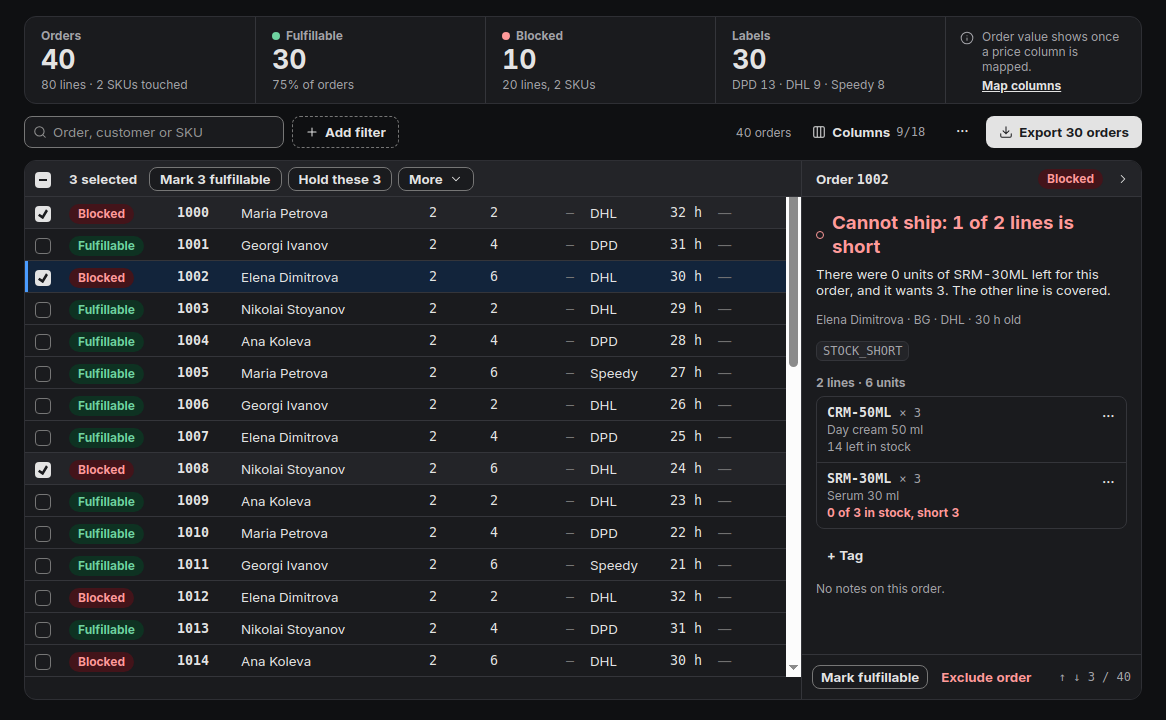
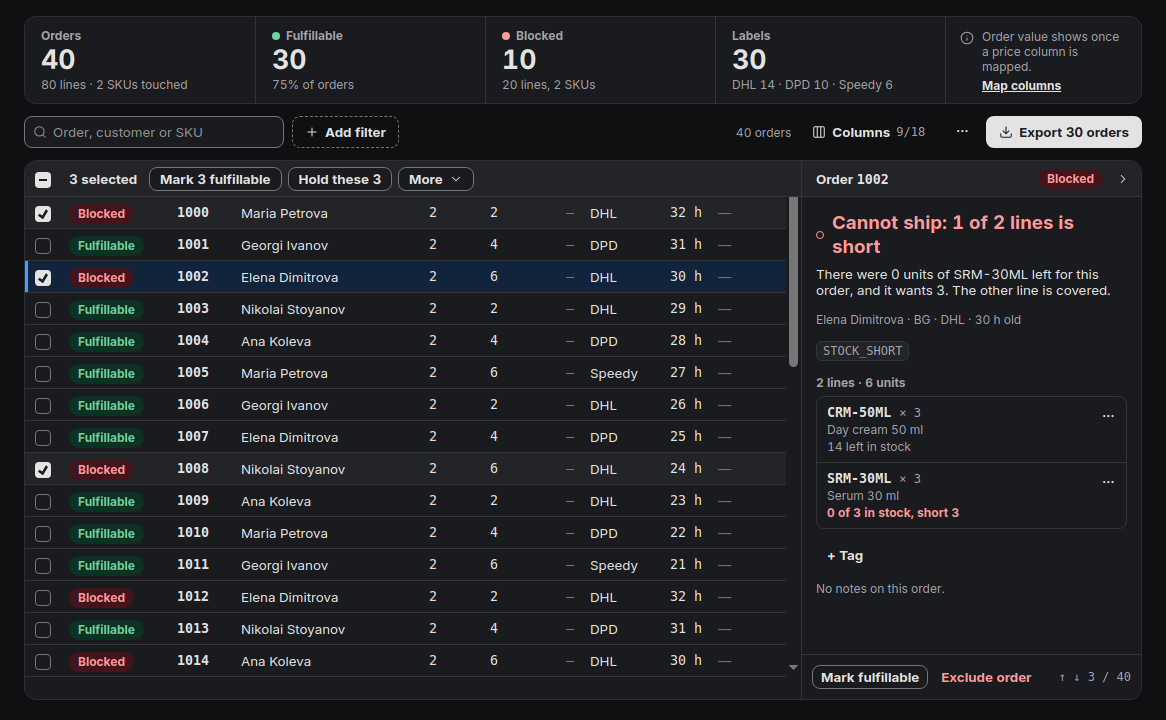
Results: review fixes - the bulk popover commits the orders it described
The popover is the only confirmation a removal gets now that the Qt
dialogs are gone, and it could go stale: Tab out to the table, Ctrl+A,
Tab back, and "Exclude 1 order" excluded every order shown. It now
snapshots the checked keys when it opens, sends that snapshot, and
closes when the checked set changes or the orders are pushed again.

Also from the review:
- the popover opens under More, as the spec says, not at the bar's edge
- scrollbars take theme colours from the kit (the dark theme showed
  Chromium's light strip); the columns scroller's own rules go
- the whole select cell toggles a row, not only its 16px box
- Shift-click reopens a hidden pane, as Shift+arrow already did
- the pane's stock sentence looks for the SKU's short problem, not the
  first problem on that SKU
- style_lint flags an inline box-shadow that ends in a semicolon
- the session chip restyles through on_theme_changed (ADR 0003) and
  uses radius_md
- "1 order" in the copied summary
- opts.rest is opts.prompt; blank-line debris in three test files

Renders re-taken from one dataset, plus the bulk popover. Spec sections
3.3, 5.5, 5.6, 5.7 and 9 say what the code does.

Claude-Session: https://claude.ai/code/session_01YCpkZ4nzdsxxMDwcrUUFDW

Changed region(s): [[0.6484, 0.4889, 0.7101, 0.9472], [0.6175, 0.0611, 0.7719, 0.1222], [0.2161, 0.0611, 0.247, 0.0917]]

diff --git a/gui/web/bulk.js b/gui/web/bulk.js
@@ -35,6 +35,7 @@ function renderSelectionBar() {
     closeBulkPopover();
     return;
   }
+  if (bulkKeys && bulkKeys.join("\n") !== selectedKeys().join("\n")) closeBulkPopover();
   els.selectionCount.textContent = NUMBER.format(n) + " selected";
   const markable = markableKeys().length;
   els.selectionMark.textContent = "Mark " + NUMBER.format(markable || n) + " fulfillable";
@@ -221,18 +222,25 @@ function tagCounts(tags) {
 }
 
 let bulkPicked = null;
+// The checked orders the open popover speaks for. It is the only confirmation
+// a removal gets, so it commits these keys and no others, and it closes when
+// the checked set or the orders under it change (renderSelectionBar, onOrders).
+let bulkKeys = null;
 
 function closeBulkPopover() {
   const open = document.getElementById("bulk-popover");
   if (open) open.remove();
   bulkPicked = null;
+  bulkKeys = null;
 }
 
-// opts: title, danger, verb(value) -> {text, disabled}, onCommit(value), and
-// optionally fill(list, pick) for a picker, rest (the verb's label before a
-// pick) and changes(value) -> string[] for a verb that removes something.
+// opts: title, danger, verb(value) -> {text, disabled}, onCommit(value, keys),
+// and optionally fill(list, pick) for a picker, prompt (the verb's label
+// before a pick) and changes(value) -> string[] for a verb that removes
+// something.
 function openBulkPopover(opts) {
   closeBulkPopover();
+  bulkKeys = selectedKeys();
   const box = el("div", "popover bulk-popover");
   box.id = "bulk-popover";
   box.setAttribute("role", "dialog");
@@ -259,7 +267,7 @@ function openBulkPopover(opts) {
   verb.type = "button";
   verb.id = "bulk-verb";
   verb.className = "btn " + (opts.danger ? "critical" : "primary");
-  verb.textContent = opts.rest || "";
+  verb.textContent = opts.prompt || "";
   verb.disabled = true;
   const cancel = document.createElement("button");
   cancel.type = "button";
@@ -295,11 +303,13 @@ function openBulkPopover(opts) {
 
   verb.addEventListener("click", () => {
     const value = bulkPicked;
+    const keys = bulkKeys;
     closeBulkPopover();
-    opts.onCommit(value);
+    opts.onCommit(value, keys);
   });
 
-  els.selectionBar.appendChild(box);
+  // Under More, which opened it (the anchor is the popover's positioned parent).
+  els.selectionMore.parentElement.appendChild(box);
   if (!opts.fill) pick(null, null); // nothing to choose: say what will change at once
   const first = list.querySelector(".bulk-row");
   (first || cancel).focus();
@@ -328,7 +338,7 @@ function openTagPopover(mode) {
   openBulkPopover({
     title: (add ? "Add a tag to " : "Remove a tag from ") + orders,
     danger: false,
-    rest: "Pick a tag",
+    prompt: "Pick a tag",
     fill: (host, onPick) => {
       renderTagList(host, rows, badge, onPick);
       if (!add) return;
@@ -340,7 +350,7 @@ function openTagPopover(mode) {
       input.addEventListener("keydown", (e) => {
         const tag = input.value.trim();
         if (e.key !== "Enter" || !tag) return;
-        const keys = selectedKeys();
+        const keys = bulkKeys;
         closeBulkPopover();
         state.bridge.addTag(keys, tag);
       });
@@ -355,8 +365,7 @@ function openTagPopover(mode) {
       }
       return { text: "Remove from " + countedWord(on, "order"), disabled: on === 0 };
     },
-    onCommit: (tag) => {
-      const keys = selectedKeys();
+    onCommit: (tag, keys) => {
       if (add) state.bridge.addTag(keys, tag);
       else state.bridge.removeTag(keys, tag);
     },
@@ -451,7 +460,7 @@ function openSkuPopover(mode) {
       ? "Remove a SKU from " + theseOrders(n)
       : "Remove whole orders containing a SKU",
     danger: true,
-    rest: "Pick a SKU",
+    prompt: "Pick a SKU",
     changes: (sku) =>
       line
         ? skuRemovalChanges(sku)
@@ -480,8 +489,7 @@ function openSkuPopover(mode) {
         disabled: on === 0,
       };
     },
-    onCommit: (sku) => {
-      const keys = selectedKeys();
+    onCommit: (sku, keys) => {
       if (line) state.bridge.removeSkuFromOrders(keys, sku);
       else state.bridge.removeOrdersWithSku(keys, sku);
     },
@@ -497,7 +505,7 @@ function openExcludePopover() {
     danger: true,
     changes: () => orderRemovalChanges(selectedOrders(), ""),
     verb: () => ({ text: "Exclude " + countedWord(n, "order"), disabled: n === 0 }),
-    onCommit: () => state.bridge.excludeOrders(selectedKeys()),
+    onCommit: (_none, keys) => state.bridge.excludeOrders(keys),
   });
 }
 

diff --git a/gui/web/results.js b/gui/web/results.js
@@ -675,7 +675,9 @@ function onRowClick(event) {
   if (event.shiftKey && state.anchorKey !== null) {
     selectRange(state.anchorKey, key, ctrl);
     state.cursorKey = key; // the range's moving end, so Shift+arrow carries on from it
-  } else if (ctrl || event.target.matches("input[type=checkbox]")) {
+    state.paneHidden = false;
+  } else if (ctrl || event.target.closest(".cell.select")) {
+    // The whole select cell, not just its 16px box: a near miss must not move the cursor.
     if (state.selected.has(key)) state.selected.delete(key);
     else state.selected.add(key);
     state.anchorKey = key;
@@ -745,6 +747,7 @@ function clearFilters() {
 
 function onOrders() {
   const orders = state.bridge.orders || [];
+  closeBulkPopover(); // what it said was true of the orders it was opened on
   state.records = orders.map((o, index) => ({ o: o, index: index, key: str(o.Order_Number), hay: searchText(o) }));
   renderKpis();
   refreshColumns();

diff --git a/gui/web/results.css b/gui/web/results.css
@@ -179,8 +179,8 @@
 
 /* --- bulk popover: one surface carries a whole bulk action --------------- */
 
-/* Opens under the selection bar. results.js caps its height to the table
-   area, so the foot and its verb are always on screen. */
+/* Opens under More. bulk.js caps its height to the table area, so the foot
+   and its verb are always on screen. */
 .bulk-popover { width: 384px; }
 .bulk-title { padding: 12px 14px 6px; font-size: var(--type-label-size); font-weight: 700; }
 .bulk-body { flex: 1; min-height: 0; overflow-y: auto; }
@@ -503,9 +503,6 @@
 .columns-search { width: 100%; }
 
 .columns-scroller { max-height: 340px; overflow-y: auto; scrollbar-gutter: stable; }
-.columns-scroller::-webkit-scrollbar { width: 10px; }
-.columns-scroller::-webkit-scrollbar-thumb { background: var(--border-subtle); border-radius: 5px; }
-.columns-scroller::-webkit-scrollbar-track { background: transparent; }
 
 .col-group {
   position: sticky;

diff --git a/gui/web/pane.js b/gui/web/pane.js
@@ -171,8 +171,9 @@ function paneCodes(o) {
 function stockSentence(o, line) {
   if (line.Short) {
     const sku = str(line.SKU);
-    const p = ((o.Verdict && o.Verdict.problems) || []).find((x) => x.sku === sku);
-    if (p && p.code === "short") {
+    // Only the short problem: the SKU may carry another one (a bad quantity) first.
+    const p = ((o.Verdict && o.Verdict.problems) || []).find((x) => x.sku === sku && x.code === "short");
+    if (p) {
       return { short: true, text: NUMBER.format(p.have) + " of " + NUMBER.format(p.need) +
         " in stock, short " + NUMBER.format(p.need - p.have) };
     }

diff --git a/gui/web/kit.css b/gui/web/kit.css
@@ -36,6 +36,10 @@
 
 html, body { margin: 0; height: 100%; }
 
+/* Inherited, so every scroller on every page: Chromium's default bar is a
+   light strip in the dark theme. */
+html { scrollbar-color: var(--border) transparent; }
+
 body {
   overflow: hidden;
   background: var(--surface-sunken);

diff --git a/tests/test_results_document.py b/tests/test_results_document.py
@@ -241,7 +241,6 @@ def test_the_value_header_is_quiet_until_a_price_column_is_mapped(qtbot, doc):
     _until_js(qtbot, view, f"{head}.classList.contains('unmapped')")
 
 
-
 def test_no_horizontal_scroll_until_the_table_minimum(qtbot, doc):
     view, _ = doc
     scroller = "document.getElementById('scroller')"
@@ -250,8 +249,6 @@ def test_no_horizontal_scroll_until_the_table_minimum(qtbot, doc):
     )
     _resize(qtbot, view, 780, 692)
     _until_js(qtbot, view, f"{scroller}.scrollWidth > {scroller}.clientWidth")
-
-
 
 
 # --- 9.13: the document -------------------------------------------------------
@@ -564,7 +561,27 @@ def test_the_cursor_row_wears_a_bar_on_its_left_edge(qtbot, doc):
     assert view.grab().toImage().pixelColor(tint_x, y).name() == token("--selection-bg")
 
 
+def test_a_near_miss_beside_the_checkbox_still_checks(qtbot, doc):
+    """The whole select cell toggles, so a click 5px off the box does not move
+    the cursor instead."""
+    view, bridge = doc
+    _eval(
+        qtbot,
+        view,
+        "document.querySelector('#rows .row[data-order=\"#10002\"] .cell.select')"
+        ".dispatchEvent(new MouseEvent('click', {bubbles: true})); true",
+    )
+    qtbot.waitUntil(lambda: bridge.selection() == ["#10002"])
+    assert _eval(qtbot, view, "state.cursorKey === null") is True
 
+
+def test_a_shift_click_reopens_a_hidden_pane(qtbot, doc):
+    view, _ = doc
+    _click_order(qtbot, view, "#10001")
+    _eval(qtbot, view, "state.paneHidden = true; render(); true")
+    assert _eval(qtbot, view, "document.getElementById('pane').hidden") is True
+    _click_order(qtbot, view, "#10003", shiftKey=True)
+    assert _eval(qtbot, view, "document.getElementById('pane').hidden") is False
 
 
 def test_an_orders_push_keeps_the_selection(qtbot, doc):
@@ -625,9 +642,6 @@ def test_sorting_value_twice_is_descending(qtbot, doc):
         view,
         "document.querySelector('#rows .row[data-index=\"0\"]').dataset.order === '#10312'",
     )
-
-
-
 
 
 def test_the_kpi_strip_is_one_card(qtbot, doc):

diff --git a/tests/test_results_bulk_popover.py b/tests/test_results_bulk_popover.py
@@ -402,7 +402,41 @@ def test_thirty_skus_scroll_and_the_verb_stays_on_screen(qtbot, page):
     assert fits == [True, True]
 
 
+def _open_exclude(qtbot, view, orders):
+    _select(qtbot, view, orders)
+    _eval(qtbot, view, "document.getElementById('selection-more').click(); true")
+    _eval(qtbot, view, "document.getElementById('more-exclude').click(); true")
 
+
+def test_the_popover_opens_under_more(qtbot, page):
+    view, _ = page
+    _open_exclude(qtbot, view, ["10444"])
+    edges = _json(
+        qtbot,
+        view,
+        "['bulk-popover', 'selection-more'].map("
+        "id => document.getElementById(id).getBoundingClientRect().left)",
+    )
+    assert edges[0] == edges[1]
+
+
+def test_a_changed_selection_closes_the_popover(qtbot, page):
+    """The popover is the only confirmation a removal gets, so it must never
+    say one order and then act on every order shown (Ctrl+A from the table)."""
+    view, _ = page
+    _open_exclude(qtbot, view, ["10444"])
+    assert _eval(qtbot, view, "document.querySelectorAll('#bulk-popover').length") == 1
+    _eval(qtbot, view, "selectAll(true); true")
+    assert _eval(qtbot, view, "document.querySelectorAll('#bulk-popover').length") == 0
+
+
+def test_an_orders_push_closes_the_popover(qtbot, page):
+    """An undo or a tag re-pushes the session: the lines it showed may be stale."""
+    view, bridge = page
+    _open_exclude(qtbot, view, ["10444"])
+    bridge.set_orders(popover_orders())
+    _until_js(qtbot, view, "document.querySelectorAll('#bulk-popover').length === 0")
+    assert _eval(qtbot, view, "state.selected.size") == 1
 
 
 def test_committing_a_line_removal_sends_the_sku(qtbot, page):

diff --git a/gui/components/commandbar.py b/gui/components/commandbar.py
@@ -233,8 +233,7 @@ class CommandBar(QWidget):
 
         self._state = BarState.NO_CLIENT
         self._progress = (0, "")
-        self._style_session()
-        get_theme_manager().theme_changed.connect(self._style_session)
+        on_theme_changed(self.session_button, self._style_session)
 
         self._bound_action = None
         self.action_button.clicked.connect(self._forward_action_click)
@@ -250,19 +249,20 @@ class CommandBar(QWidget):
             f" border-bottom: 1px solid {theme.border_subtle}; }}"
         )
 
-    def _style_session(self) -> None:
+    def _style_session(self, theme=None) -> None:
         """The session button as plain text, or on Results as the mockup's chip.
 
         Its own sheet rather than the app's: this is the one QToolButton drawn
         this way, and a widget sheet has to be re-applied on a theme change.
         """
-        theme = get_theme_manager().get_current_theme()
+        theme = theme or get_theme_manager().get_current_theme()
         if self._results_mode:
             self.session_button.setStyleSheet(
                 f"QToolButton {{ {font_css('caption')}"
                 f" font-family: {theme.font_family_mono};"
                 f" background-color: {theme.surface_raised};"
-                f" border: 1px solid {theme.border}; border-radius: 6px;"
+                f" border: 1px solid {theme.border};"
+                f" border-radius: {theme.radius_md}px;"
                 " padding: 0px 8px; min-height: 20px; max-height: 20px; }"
                 " QToolButton::menu-indicator { image: none; }"
             )

diff --git a/shared/style_lint.py b/shared/style_lint.py
@@ -139,6 +139,9 @@ _BANNED = re.compile(
 _SHADOW_OK = re.compile(
     r"\s*(?:var\(\s*--(?:card|overlay)-shadow\s*\)|none)\s*[;}]"
 )
+# Shadows belong in a stylesheet: an open style="..." earlier on the line means
+# the declaration is inline, token or not.
+_INLINE_STYLE = re.compile(r"style\s*=\s*([\"'])(?:(?!\1).)*$")
 
 # The aliases are never exported to the web tier, so var(--accent-blue)
 # resolves to nothing and paints transparent without a sound.
@@ -256,6 +259,9 @@ def _scan_web_asset(path: Path) -> list[str]:
                 kind == "banned"
                 and m.group(1) == "box-shadow"
                 and _SHADOW_OK.match(code, m.end())
+                and not _INLINE_STYLE.search(
+                    code, code.rfind("\n", 0, m.start()) + 1, m.start()
+                )
             ):
                 continue
             found.append((ln, kind, m.group(m.lastindex or 0)))

diff --git a/tests/test_style_lint.py b/tests/test_style_lint.py
@@ -379,3 +379,18 @@ def test_a_shadow_in_an_inline_style_attribute_is_banned(tmp_path):
         tmp_path, "page.html", '<div style="box-shadow: var(--card-shadow)"></div>\n'
     )
     assert out == ["1: banned: box-shadow"]
+    # A trailing semicolon, or a declaration after it, must not launder it.
+    closed = _scan_asset(
+        tmp_path,
+        "closed.html",
+        '<div style="box-shadow: var(--card-shadow);"></div>\n'
+        "<div style='color: inherit; box-shadow: none; margin: 0'></div>\n",
+    )
+    assert closed == ["1: banned: box-shadow", "2: banned: box-shadow"]
+    # A stylesheet rule sharing a line with a closed style attribute is clean.
+    sheet = _scan_asset(
+        tmp_path,
+        "sheet.html",
+        '<p style="margin: 0"></p><style>.a { box-shadow: none; }</style>\n',
+    )
+    assert sheet == []

diff --git a/tests/test_results_selection_bar.py b/tests/test_results_selection_bar.py
@@ -140,18 +140,6 @@ def test_the_header_box_clears_the_checked_orders_and_hides_the_bar(qtbot, page)
     assert _eval(qtbot, view, "document.getElementById('selection-clear')") in (None, "")
 
 
-
-
-
-
-
-
-
-
-
-
-
-
 def test_the_bar_covers_the_header_so_the_table_never_moves(qtbot, page):
     """The bar takes the header row's place instead of pushing the table
     down, so clicking an order leaves every row where it was."""
@@ -182,9 +170,6 @@ def test_mounting_the_bar_does_not_move_focus(qtbot, page):
     _eval(qtbot, view, "document.getElementById('search').focus(); true")
     _select(qtbot, view, ["10443"])
     assert _eval(qtbot, view, "document.activeElement.id") == "search"
-
-
-
 
 
 def test_more_lists_its_eight_items_in_order(qtbot, page):

diff --git a/tests/test_results_pane.py b/tests/test_results_pane.py
@@ -444,6 +444,14 @@ def test_a_line_says_what_stock_it_has(qtbot, doc):
     assert _text(qtbot, view, "#pane .line[data-index=\"0\"] .line-qty") == "× 6"
     _select(qtbot, view, "#10449")
     assert _text(qtbot, view, "#pane .line[data-index=\"0\"] .line-stock") == "None in stock"
+    # The SKU's short problem is found behind another problem on the same SKU.
+    behind = (
+        "stockSentence({Verdict: {problems: ["
+        "{sku: 'A', code: 'invalid_quantity'},"
+        "{sku: 'A', code: 'short', have: 4, need: 6}]}},"
+        " {SKU: 'A', Short: true}).text"
+    )
+    assert _eval(qtbot, view, behind) == "4 of 6 in stock, short 2"
 
 
 def test_a_line_names_its_lot(qtbot, doc):
